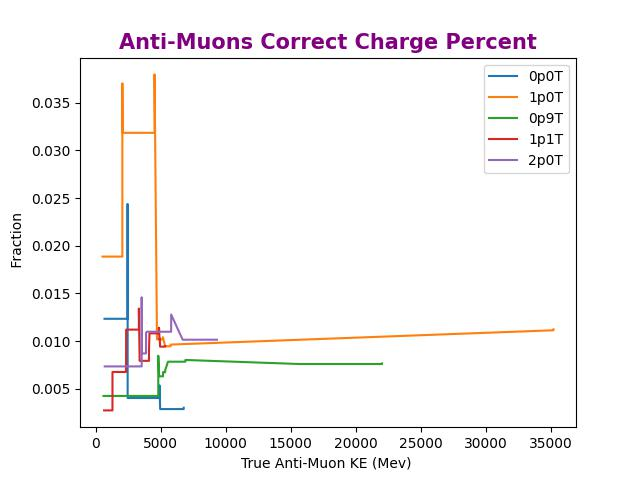
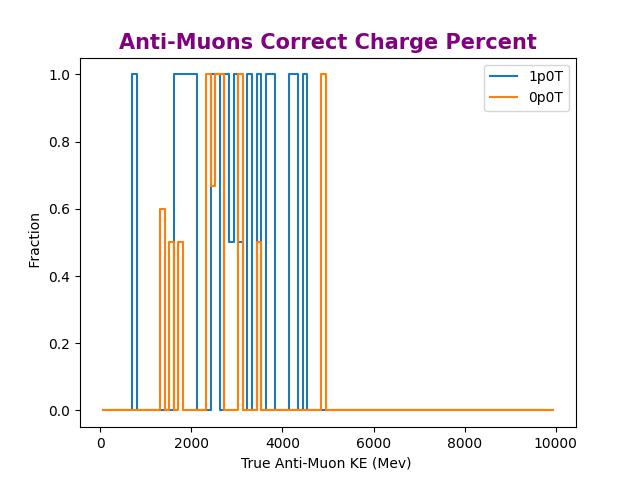
latest change

diff --git a/new/make_for_correct_muons.py b/new/make_for_correct_muons.py
@@ -6,7 +6,7 @@ from mat_helper import Hists_Graph
 
 
 
-with open("python_object_latest.sushil_dai", 'rb') as file:
+with open("python_object_ultra_latest.sushil_dai", 'rb') as file:
     loaded_data = pickle.load(file)
 
 muon_graph = Hists_Graph("Muons Correct Charge Percent", "True Muon KE (Mev) ;True signed distance(mm); Fraction")
@@ -15,18 +15,26 @@ muon_names=[]
 for i in loaded_data['AMUONS']:
     filtered_name = i.split("_")[-1].split(".")[0]
 
-    for k in range(1, len(loaded_data['MUONS_CORRECT'][i][0])):
-        key = loaded_data['MUONS_CORRECT'][i][0][k]
-        # Move elements of arr[0..i-1], that are greater than key,
-        # to one position ahead of their current position
-        j = k - 1
-        while j >= 0 and key < loaded_data['MUONS_CORRECT'][i][0][j]:
-            loaded_data['MUONS_CORRECT'][i][0][j + 1] = loaded_data['MUONS_CORRECT'][i][0][j]
-            loaded_data['MUONS_CORRECT'][i][1][j+1] = loaded_data['MUONS_CORRECT'][i][1][j]
-            j -= 1
-        loaded_data['MUONS_CORRECT'][i][0][j + 1] = key
+    # for k in range(1, len(loaded_data['MUONS_CORRECT'][i][0])):
+    #     key = loaded_data['MUONS_CORRECT'][i][0][k]
+    #     # Move elements of arr[0..i-1], that are greater than key,
+    #     # to one position ahead of their current position
+    #     j = k - 1
+    #     while j >= 0 and key < loaded_data['MUONS_CORRECT'][i][0][j]:
+    #         loaded_data['MUONS_CORRECT'][i][0][j + 1] = loaded_data['MUONS_CORRECT'][i][0][j]
+    #         loaded_data['MUONS_CORRECT'][i][1][j+1] = loaded_data['MUONS_CORRECT'][i][1][j]
+    #         j -= 1
+    #     loaded_data['MUONS_CORRECT'][i][0][j + 1] = key
 
-    muon_graph.add_plot(loaded_data['MUONS_CORRECT'][i][0],loaded_data['MUONS_CORRECT'][i][1])
+    num,den = np.array(loaded_data['MUONS_CORRECT'][i][0]),np.array(loaded_data['MUONS_CORRECT'][i][1])
+    bins = np.linspace(0, 6000, 100)  # 100 bins from -5 to 5
+    
+    hist1, bin_edges1 = np.histogram(num, bins=bins)
+    hist2, bin_edges2 = np.histogram(den, bins=bins)
+    bin_centers = (bin_edges1[:-1] + bin_edges1[1:]) / 2
+    hist_ratio = np.divide(hist1, hist2, out=np.zeros_like(hist1, dtype=float), where=hist2 != 0)
+    muon_graph.make_bar(bin_centers, hist_ratio, width=bin_edges1[1] - bin_edges1[0])
+
     # muon_graph.add(loaded_data['MUONS_CORRECT'][i][0])
     muon_names.append(filtered_name)
     print("passed")

diff --git a/new/make_for_correct_amuons.py b/new/make_for_correct_amuons.py
@@ -6,7 +6,7 @@ from mat_helper import Hists_Graph
 
 
 
-with open("python_object_latest.sushil_dai", 'rb') as file:
+with open("python_object_ultra_latest.sushil_dai", 'rb') as file:
     loaded_data = pickle.load(file)
 
 amuon_graph = Hists_Graph("Anti-Muons Correct Charge Percent", "True Anti-Muon KE (Mev) ;True signed distance(mm); Fraction")
@@ -14,12 +14,21 @@ amuon_graph = Hists_Graph("Anti-Muons Correct Charge Percent", "True Anti-Muon K
 amuon_names=[]
 for i in loaded_data['AMUONS']:
     filtered_name = i.split("_")[-1].split(".")[0]
+    num,den = np.array(loaded_data['AMUONS_CORRECT'][i][0]),np.array(loaded_data['AMUONS_CORRECT'][i][1])
+    # print(num/den)
+    bins = np.linspace(0, 10000, 100)  # 100 bins from -5 to 5
+    
+    hist1, bin_edges1 = np.histogram(num, bins=bins)
+    hist2, bin_edges2 = np.histogram(den, bins=bins)
+    bin_centers = (bin_edges1[:-1] + bin_edges1[1:]) / 2
+    hist_ratio = np.divide(hist1, hist2, out=np.zeros_like(hist1, dtype=float), where=hist2 != 0)
+    amuon_graph.make_bar(bin_centers, hist_ratio, width=bin_edges1[1] - bin_edges1[0])
+
+
     # print(max(loaded_data['AMUONS_CORRECT'][i][1]))
     # break
     # print(len(loaded_data['AMUONS_CORRECT'][i][0]),len(loaded_data['AMUONS_CORRECT'][i][1]))
     # print(loaded_data['AMUONS_CORRECT'][i][0][29],loaded_data['AMUONS_CORRECT'][i][1][29])
-    for count,l in enumerate(loaded_data['AMUONS_CORRECT'][i][1]):
-        print(l,count)
 #     for k in range(1, len(loaded_data['AMUONS_CORRECT'][i][0])):
 #         key = loaded_data['AMUONS_CORRECT'][i][0][k]
 #         # Move elements of arr[0..i-1], that are greater than key,
@@ -35,6 +44,6 @@ for i in loaded_data['AMUONS']:
     
 #     # amuon_graph.add(loaded_data['AMUONS_CORRECT'][i][0],loaded_data['AMUONS_CORRECT'][i][1])
 #     amuon_graph.add_plot(loaded_data['AMUONS_CORRECT'][i][0],loaded_data['AMUONS_CORRECT'][i][1])
-#     amuon_names.append(filtered_name)
-# amuon_graph.finish(amuon_names)
-# amuon_graph.save("Amuons_Correct.jpg")
+    amuon_names.append(filtered_name)
+amuon_graph.finish(amuon_names)
+amuon_graph.save("Amuons_Correct.jpg")

diff --git a/histograms.py b/histograms.py
@@ -146,6 +146,7 @@ def run(c, truth, f,outfilename, nmax=-1):
         
         # use PositionTMSStart, MomentumTMSStart, and PositionTMSEnd, truth level study
         for index, particle in enumerate(truth.PDG):
+            print(i)
             signed_dist=None
             if truth.PDG[index] == 13:
                 n_true_muons+=1

diff --git a/new/mat_helper.py b/new/mat_helper.py
@@ -14,6 +14,10 @@ class Hists_Graph():
         # plt.hist(x,bins=100,color=color)   
         # plt.xlim(-2000, 2000)
 
+    def make_bar(self,bin_centers,hist_ratio,width):
+        plt.step(bin_centers, hist_ratio, where='mid',linestyle="-")
+
+
     def scatter(self,x,y,color=None):
         plt.scatter(x,y)
         
